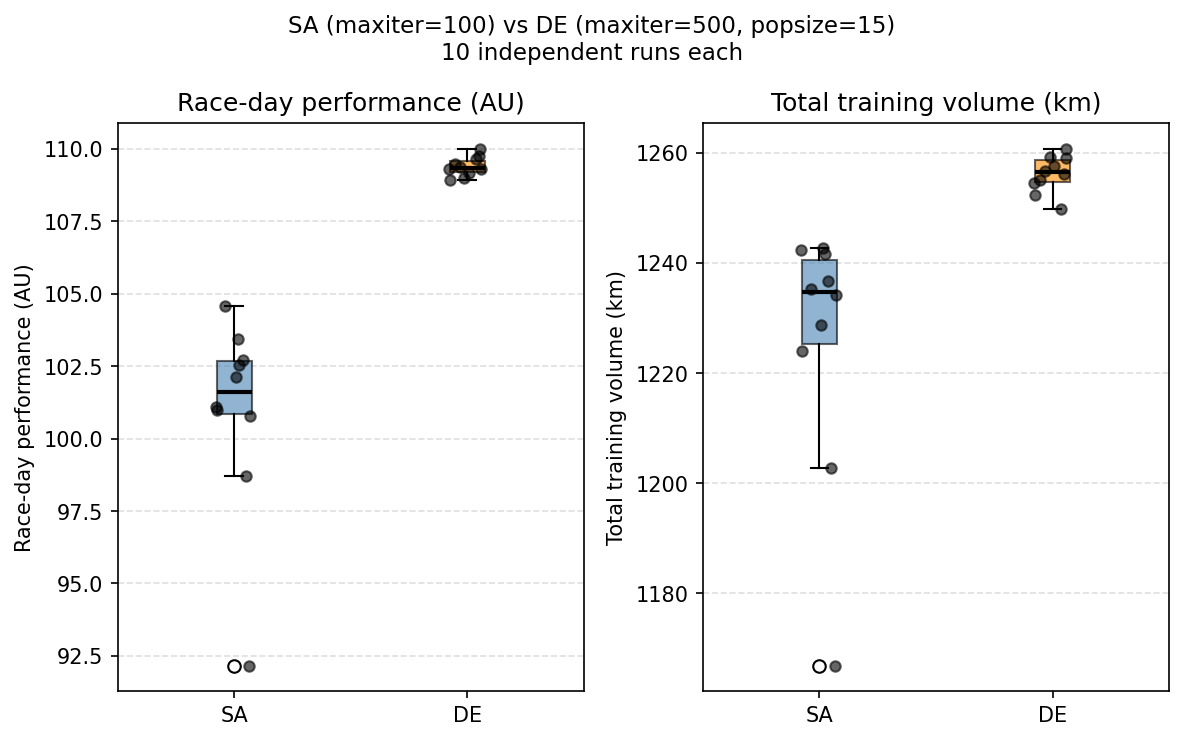
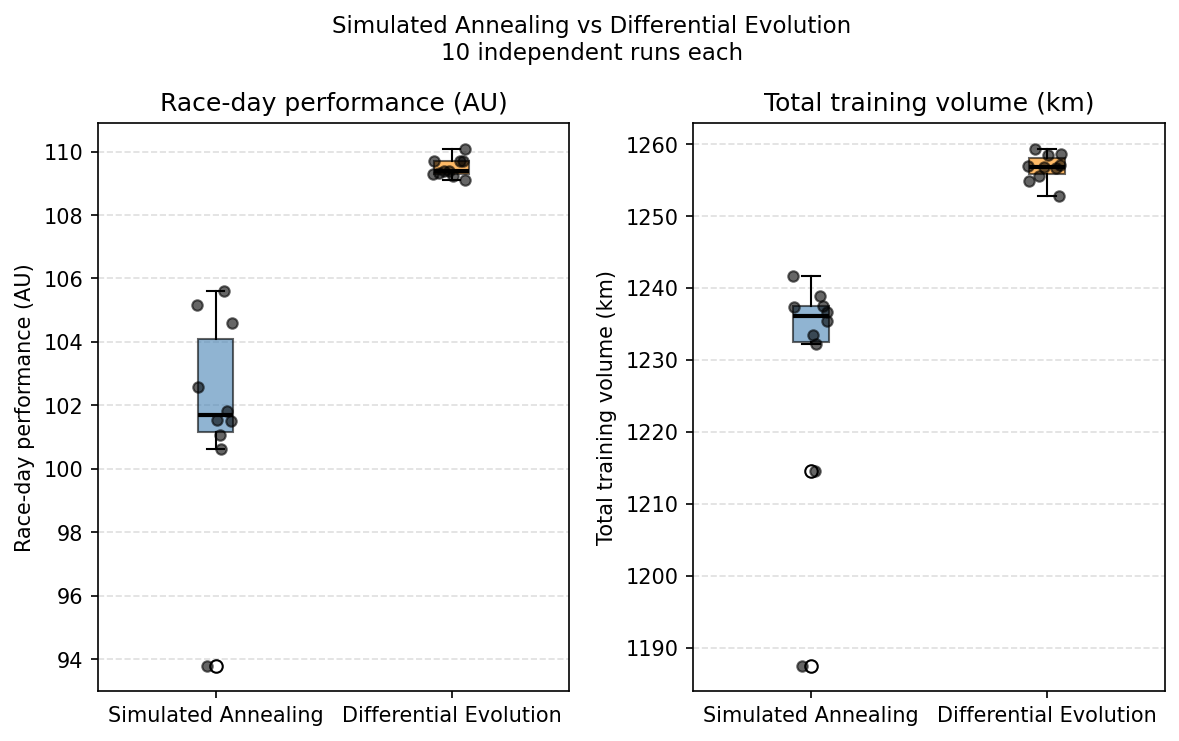
update performance and training load comparinson

diff --git a/compare_optimizers_robustness.py b/compare_optimizers_robustness.py
@@ -249,7 +249,7 @@ def _plot_comparison(sa_results: list, de_results: list) -> None:
         # Box plots
         bp = ax.boxplot(
             [sa_vals, de_vals],
-            labels=["SA", "DE"],
+            labels=["Simulated Annealing", "Differential Evolution"],
             patch_artist=True,
             medianprops=dict(color="black", linewidth=2),
         )
@@ -268,7 +268,7 @@ def _plot_comparison(sa_results: list, de_results: list) -> None:
         ax.grid(axis="y", linestyle="--", alpha=0.4)
 
     fig.suptitle(
-        f"SA (maxiter={SA_MAXITER}) vs DE (maxiter={DE_MAXITER}, popsize={DE_POPSIZE})\n"
+        f"Simulated Annealing vs Differential Evolution\n"
         f"{N_RUNS} independent runs each",
         fontsize=11,
     )
@@ -285,8 +285,8 @@ def _plot_variability(sa_results: list, de_results: list) -> None:
     sa_time = np.array([r["time"] for r in sa_results])
     de_time = np.array([r["time"] for r in de_results])
 
-    ax.scatter(sa_time, sa_perf, color="steelblue",  s=80, label="SA", zorder=3)
-    ax.scatter(de_time, de_perf, color="darkorange", s=80, label="DE", zorder=3)
+    ax.scatter(sa_time, sa_perf, color="steelblue",  s=80, label="Simulated Annealing", zorder=3)
+    ax.scatter(de_time, de_perf, color="darkorange", s=80, label="Differential Evolution", zorder=3)
 
     ax.set_xlabel("Wall-clock time (s)")
     ax.set_ylabel("Race-day performance (AU)")
